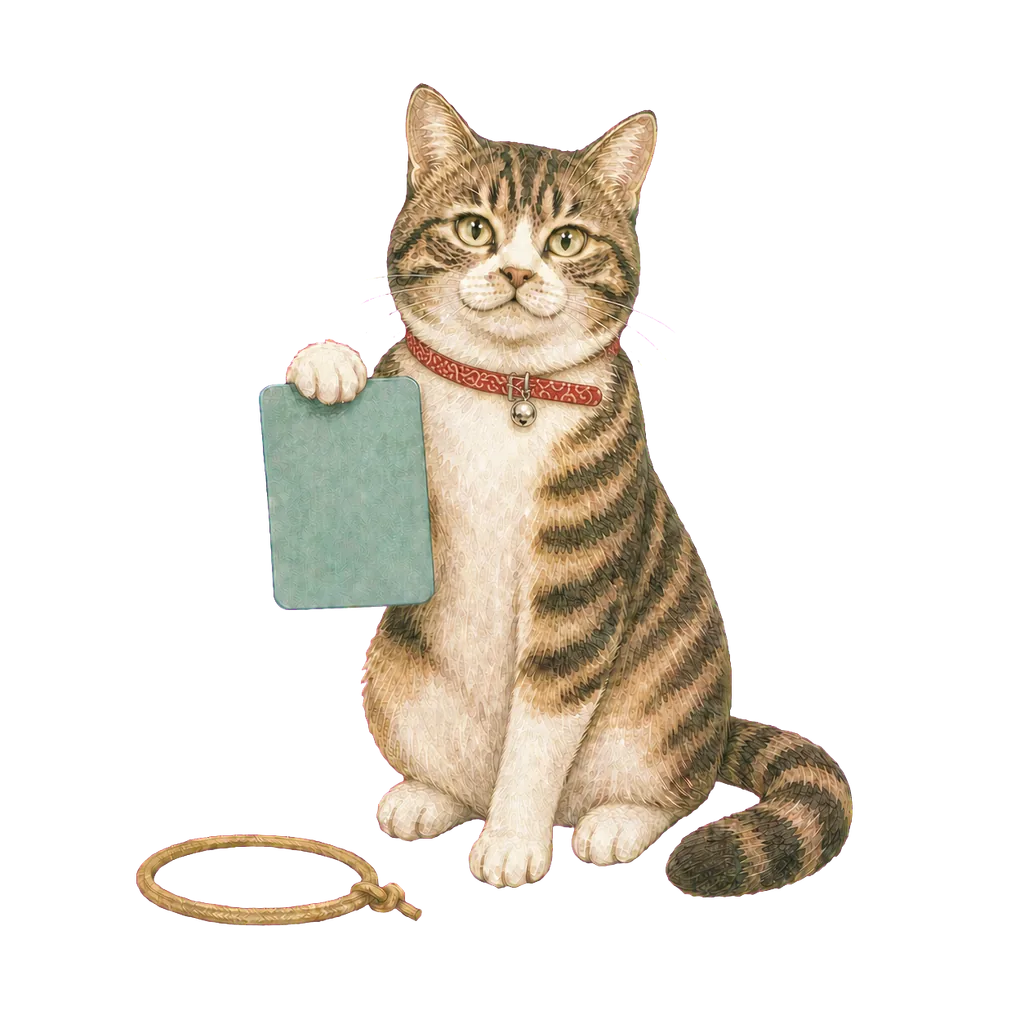
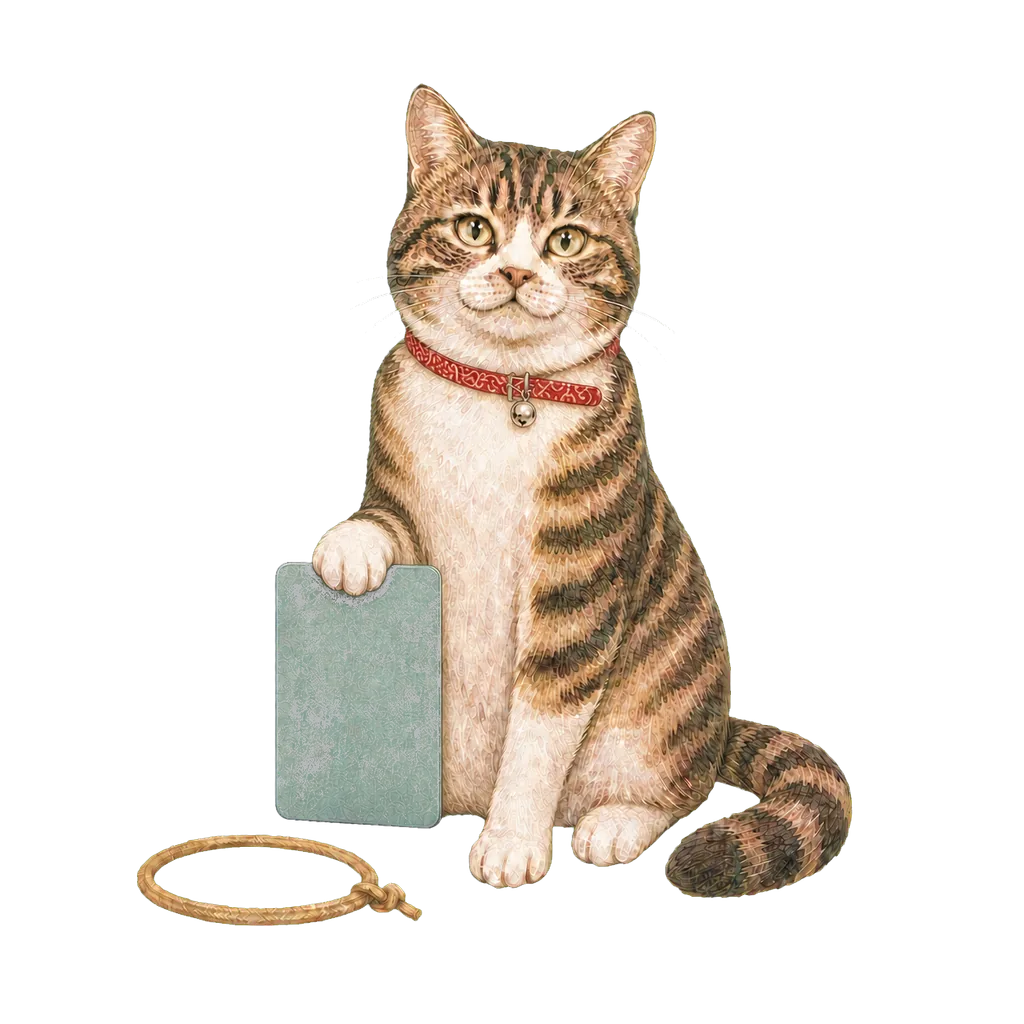
fix(q012): adopt floor-supported row 41 art

diff --git a/docs/tasks.md b/docs/tasks.md
@@ -225,6 +225,7 @@ T-010はMVP通常公開から分離して実装できる。外部ベータ公開
 - Q-012制作台帳Task 6（2026-07-26）: 複合因子キャラクター第1便10体をproject-ownerが原画・WebPともに承認し、累計21体を`technical-approved`へ更新した。風見の方角文字を除去して画像内文字なしの契約へ適合させ、全10体は指定ポーズ・1〜2小物・猫1体・無背景を維持している。共通encoder設定で1024×1024へ変換し、alphaあり、透明画素あり、端接触なし、250,000 bytes以下、source/delivery SHA-256一致を確認した。残り30体とrelease accessibility gateは未完了である。
 - Q-012制作台帳Task 7（2026-07-27）: project-owner承認済みの複合因子キャラクター第2便10体（catalog rows 22〜31）を`review-candidates/`に保持したまま正典source PNGへ昇格し、固定encoder設定でWebPへ変換した。全10体は1024×1024、alphaあり、透明画素あり、端接触なし、250,000 bytes以下で、source/delivery SHA-256とbyteLengthを台帳へ記録した。project-ownerのWebP比較承認後に`technical-approved`へ更新した。
 - Q-012制作台帳Task 8（2026-07-27）: project-owner承認済みの複合因子キャラクター第3便10体（catalog rows 32〜41）も同じ非破壊手順で正典source PNGとWebPへ昇格した。全10体は固定encoder設定、1024×1024、alphaあり、透明画素あり、端接触なし、250,000 bytes以下で、source/delivery SHA-256とbyteLengthを台帳へ記録した。project-ownerのWebP比較承認後に`technical-approved`へ更新し、累計41体で`pair03`ゲートを通過した。残りはcatalog rows 42〜51の10体とrelease accessibility gateである。
+- Q-012 catalog row 41再承認（2026-07-27）: `自分の色を掲げる表明者`は、猫が片方の前足だけで色札を垂直に持ち上げる表現を避けるため、project-ownerが代替A案を承認した。構図・猫・色札・円形の紐を大きく変えず、色札の下端を床で支持し、猫は上端へ前足を添える表現へ更新した。キャラクター資産版を`character-pair-extraversion-high--agreeableness-low-v2`へ上げ、正典source PNG、WebP、台帳の動作説明・alt・SHA-256・byteLength・承認時刻を同期した。
 - Q-012再利用コンポーネント（2026-07-27）: `title-pair-conscientiousness-high--extraversion-high`の歩行猫、壁掛け時計、無地カード、正典首輪を版付き透過PNGとして`docs/assets/character-production/components/`へ分離した。猫は`pose-master`、時計・カードは`direct-overlay`、首輪は姿勢適合が必要な`style-reference`として区別し、寸法・byteLength・SHA-256をmanifestへ固定した。全4点は透明四隅、alphaあり、クロマキー残りなしを確認済み。最終画像の正典は引き続き`source-png/`とし、再構成画像はQ-012のart/anatomy/technical reviewを省略しない。
 - 永続化契約解消（2026-07-26）: `resultId`はRFC 4122 UUID形状へ統一する。`preview20`保存では追加回答用ProgressRecordを保持し、`detail50`完答では履歴保存の成否にかかわらず生回答を破棄する。保存成功時はsnapshot追加と進捗削除を同一StorageEnvelope書込みで行い、保存失敗時も進捗削除をbest-effortで試みる。
 - 検証: `app/tests/result-evidence-definitions.test.js`、`app/tests/result-content-definitions.test.js`、`app/tests/result-composer.test.js`、`app/tests/result-snapshot.test.js`。リポジトリ同期は`app/tests/project-contract.test.js`で検証する。
